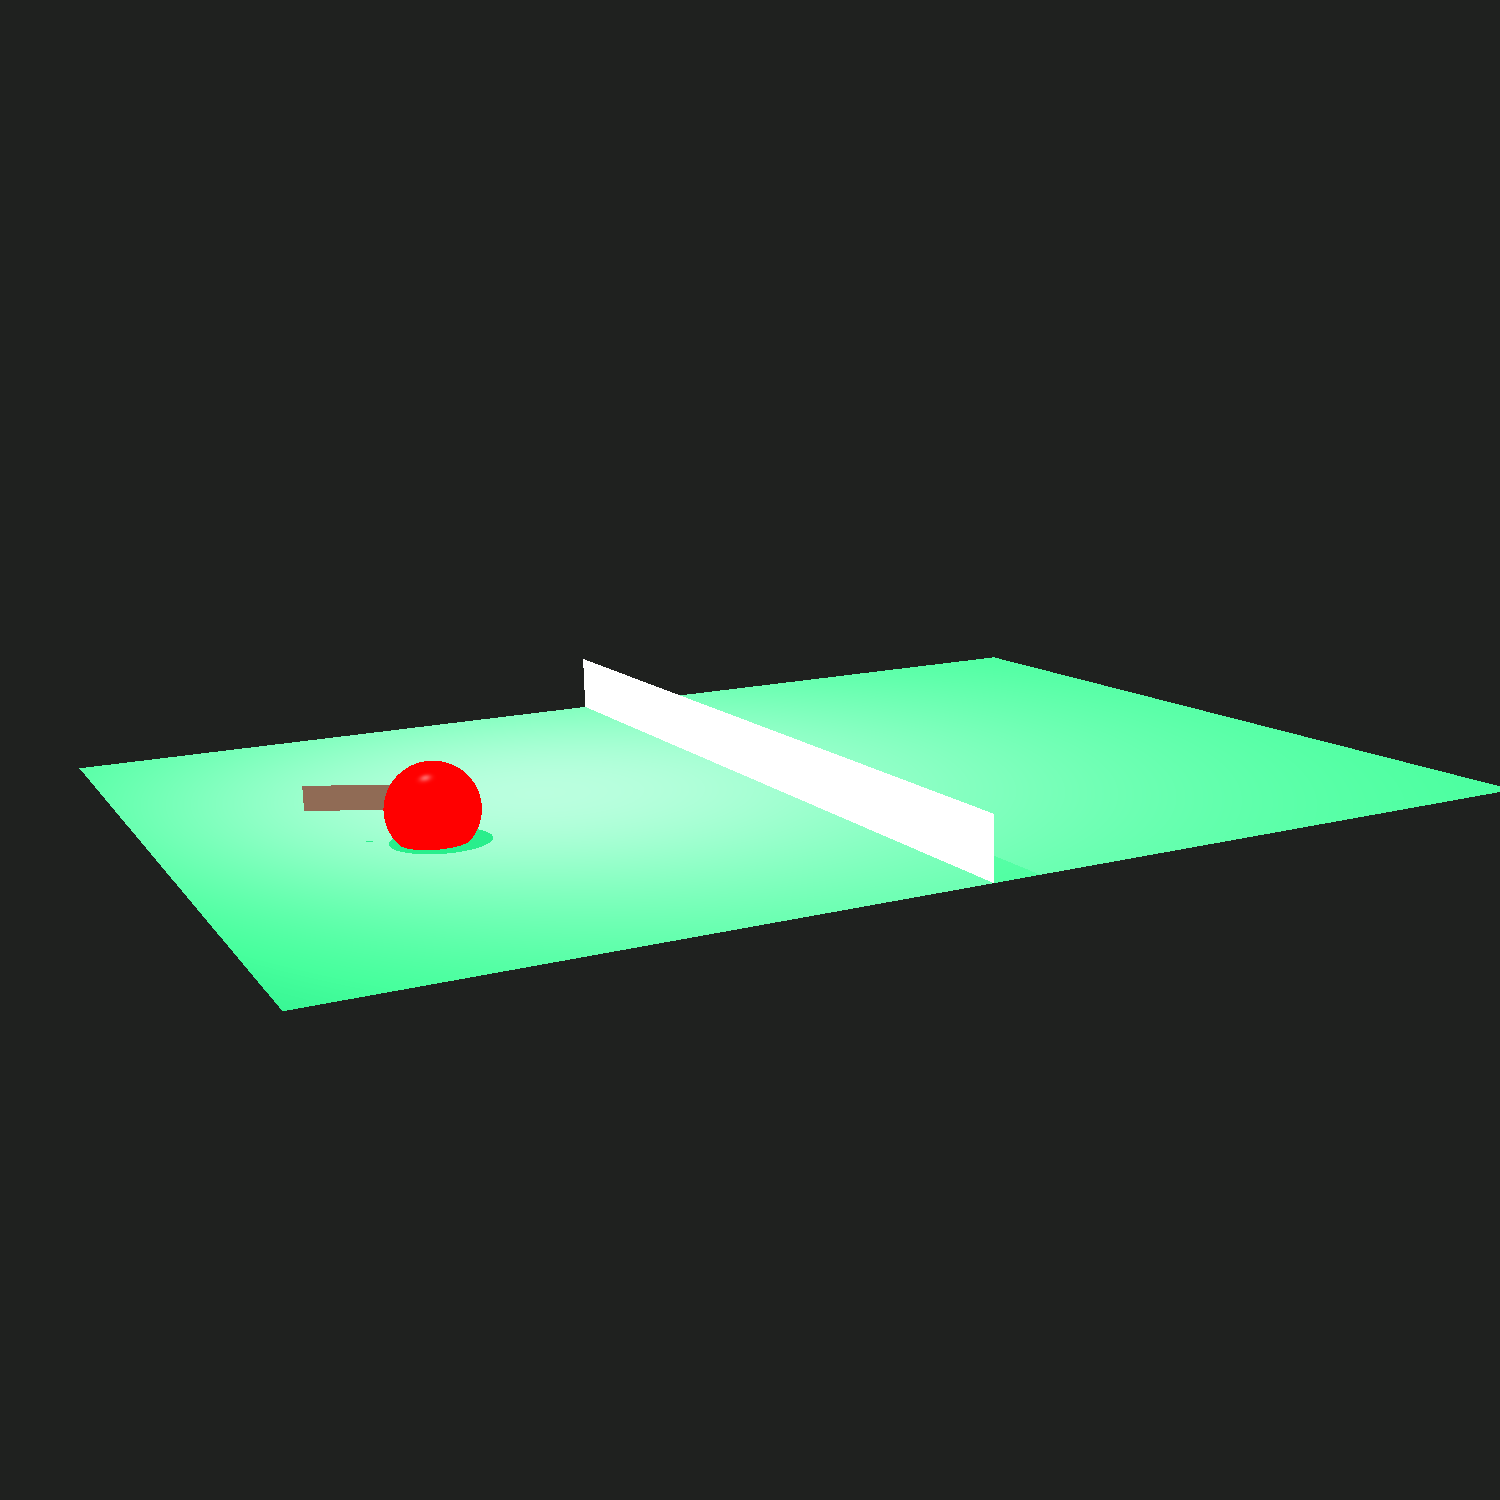
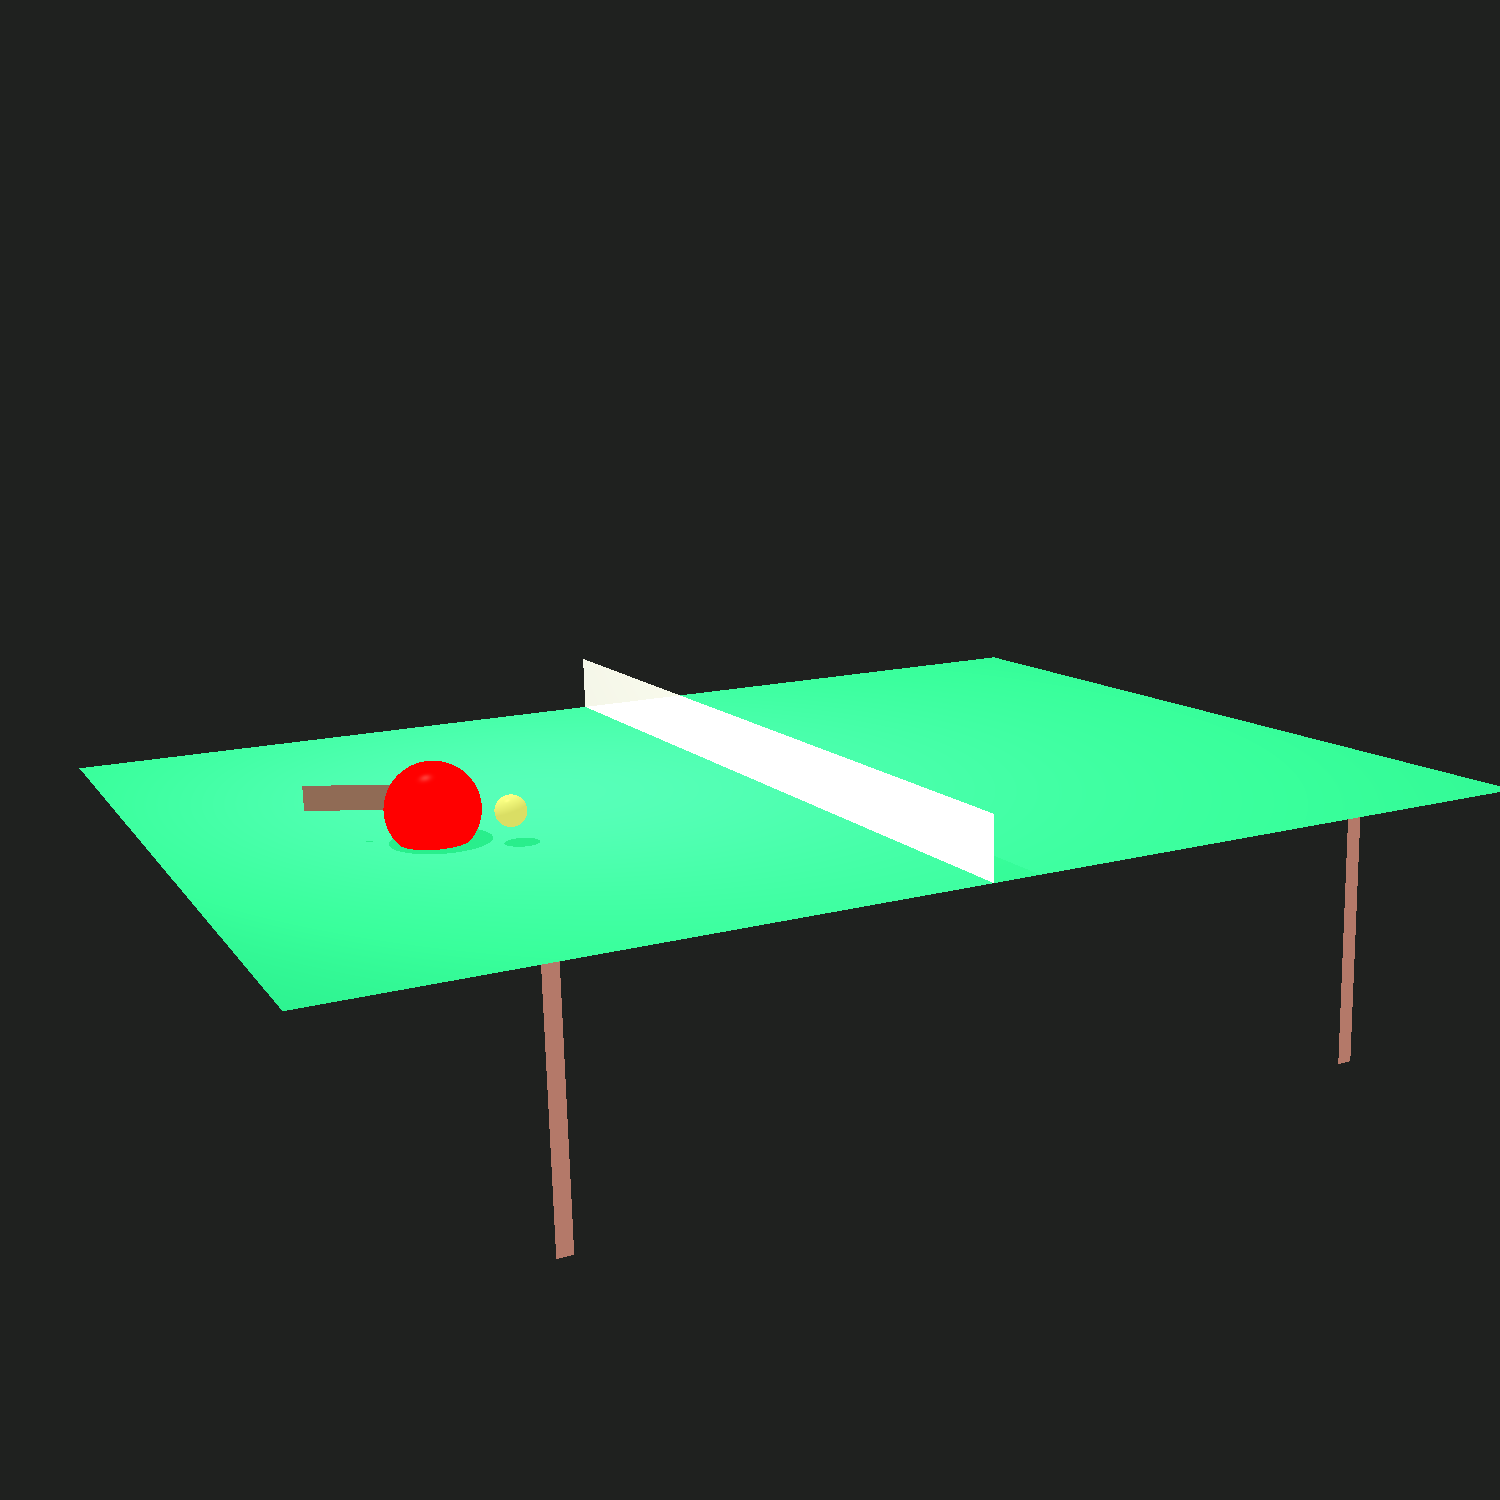
final commit ex7

Changed region(s): [[0.0613, 0.4293, 1.0, 0.8587]]

diff --git a/tests/renderer/MyImages.java b/tests/renderer/MyImages.java
@@ -1,4 +1,5 @@
 package renderer;
+
 import elements.*;
 import geometries.*;
 import primitives.*;
@@ -9,51 +10,98 @@ import org.junit.jupiter.api.Test;
 
 public class MyImages {
 
+    Scene scene = new Scene.SceneBuilder("Tennis table")
+            .setBackground(new Color(31, 33, 31))
+            .setGeometries(new Geometries(
+                    new Polygon(
+                            new Point3D(-200, -150, -10),
+                            new Point3D(-200, 150, -10),
+                            new Point3D(200, 150, -10),
+                            new Point3D(200, -150, -10))
+                            .setEmission(new Color(41, 238, 140))
+                            .setMaterial(new Material()
+                                    .setShininess(200)
+                                    .setKs(0.3)
+                                    .setKd(0.6)),
+                    new Polygon(
+                            new Point3D(0, 150, 10),
+                            new Point3D(0, 150, -10),
+                            new Point3D(0, -150, -10),
+                            new Point3D(0, -150, 10))
+                            .setEmission(new Color(238, 239, 226))
+                            .setMaterial(new Material()
+                                    .setKd(0.2)
+                                    .setKs(0.2)
+                                    .setShininess(30)
+                                    .setKt(0.6)),
+                    new Sphere(15, new Point3D(120, 20, 0))
+                            .setEmission(Color.RED)
+                            .setMaterial(new Material()
+                                    .setKs(0.8)
+                                    .setShininess(60)),
+                    new Polygon(
+                            new Point3D(155, 0, 8),
+                            new Point3D(155, 0, 0),
+                            new Point3D(120, 20, 0),
+                            new Point3D(120, 20, 8))
+                            .setEmission(new Color(144, 107, 85))
+                            .setMaterial(new Material()
+                                    .setShininess(100)
+                                    .setKs(0.5)
+                                    .setKd(0.5)),
+                    new Polygon(
+                            new Point3D(130, 150, -10),
+                            new Point3D(135, 150, -10),
+                            new Point3D(135, 150, -90),
+                            new Point3D(130, 150, -90))
+                            .setEmission(new Color(180, 121, 105))
+                            .setMaterial(new Material()
+                                    .setKd(0.8)),
+                    new Polygon(
+                            new Point3D(-130, 150, -10),
+                            new Point3D(-135, 150, -10),
+                            new Point3D(-135, 150, -90),
+                            new Point3D(-130, 150, -90))
+                            .setEmission(new Color(180, 121, 105))
+                            .setMaterial(new Material()
+                                    .setKd(0.8)),
+                    new Polygon(
+                            new Point3D(-130, -150, -10),
+                            new Point3D(-135, -150, -10),
+                            new Point3D(-135, -150, -90),
+                            new Point3D(-130, -150, -90))
+                            .setEmission(new Color(180, 121, 105))
+                            .setMaterial(new Material()
+                                    .setKd(0.8)),
+                    new Polygon(
+                            new Point3D(-130, 150, -10),
+                            new Point3D(-135, 150, -10),
+                            new Point3D(-135, 150, -90),
+                            new Point3D(-130, 150, -90))
+                            .setEmission(new Color(180, 121, 105))
+                            .setMaterial(new Material()
+                                    .setKd(0.8)),
+                    new Sphere(5, new Point3D(100, 35, 0))
+                            .setEmission(new Color(218, 222, 100))
+                            .setMaterial(new Material()
+                                    .setShininess(50)
+                                    .setKd(0.5)
+                                    .setKs(0.2))))
+            .build();
+
     @Test
-    void tennisTable(){
-        Point3D p1 = new Point3D(-200, -150, -10),
-                p2 = new Point3D(-200, 150, -10),
-                p3 = new Point3D(200, 150, -10),
-                p4 = new Point3D(200, -150, -10);
-        Scene scene = new Scene.SceneBuilder("my scene")
-                .setBackground(new Color(31, 33, 31))
-                .setGeometries(new Geometries(
-                        new Polygon(p1, p2, p3, p4)
-                        .setEmission(new Color(41, 238, 140))
-                        .setMaterial(new Material()
-                        .setShininess(200)
-                        .setKs(0.3)
-                        .setKd(0.6)),
-                        new Polygon(
-                                new Point3D(0, 150, 10),
-                                new Point3D(0, 150, -10),
-                                new Point3D(0, -150, -10),
-                                new Point3D(0, -150, 10)
-                        ).setEmission(new Color(243, 253, 254))
-                        .setMaterial(new Material().setKd(0.3).setKs(0.2).setKt(0.6)),
-                        new Sphere(15, new Point3D(120, 20,0))
-                        .setEmission(Color.RED)
-                        .setMaterial(new Material().setKs(0.8).setShininess(60)),
-                        new Polygon(
-                                new Point3D(155, 0, 8),
-                                new Point3D(155, 0,0),
-                                new Point3D(120, 20, 0),
-                                new Point3D(120, 20, 8))
-                        .setEmission(new Color(144, 107, 85))
-                        .setMaterial(new Material().setShininess(100).setKs(0.5).setKd(0.5))
-                ))
-                .build();
+    void tennisTable() {
         scene.lights.add(
                 new SpotLight(
-                    new Color(700, 400, 400),
-                    new Point3D(150, 0, 200),
-                    new Vector(-150, -38, -90))
-                    .setKl(4E-4).setKq(2E-5));
+                        new Color(225, 239, 217),
+                        new Point3D(150, 0, 200),
+                        new Vector(-150, -38, -90))
+                        .setKl(4E-4).setKq(2E-5));
 
         Camera camera = new Camera(
                 new Point3D(300, 600, 150),
                 new Vector(-300, -600, -150),
-                new Vector(-12.5,-18.75,100))
+                new Vector(-12.5, -18.75, 100))
                 .setViewPlaneSize(150, 150)
                 .setDistance(200);
 
@@ -64,50 +112,10 @@ public class MyImages {
         render.renderImage();
         render.writeToImage();
 
-        Render render2 = new Render()
-                .setImageWriter(new ImageWriter("Tennis table different angle", 1500, 1500))
-                .setCamera(camera
-                        .moveCamera(10, 20, 0)
-                        .rotateCamera(new Vector(-4, -7, -15), 4))
-                .setRayTracer(new RayTracerBasic(scene));
-        render.renderImage();
-        render.writeToImage();
     }
 
     @Test
-    void tennisTable2(){
-        Point3D p1 = new Point3D(-200, -150, -10),
-                p2 = new Point3D(-200, 150, -10),
-                p3 = new Point3D(200, 150, -10),
-                p4 = new Point3D(200, -150, -10);
-        Scene scene = new Scene.SceneBuilder("my scene")
-                .setBackground(new Color(31, 33, 31))
-                .setGeometries(new Geometries(
-                        new Polygon(p1, p2, p3, p4)
-                                .setEmission(new Color(41, 238, 140))
-                                .setMaterial(new Material()
-                                        .setShininess(200)
-                                        .setKs(0.3)
-                                        .setKd(0.6)),
-                        new Polygon(
-                                new Point3D(0, 150, 10),
-                                new Point3D(0, 150, -10),
-                                new Point3D(0, -150, -10),
-                                new Point3D(0, -150, 10)
-                        ).setEmission(new Color(243, 253, 254))
-                                .setMaterial(new Material().setKd(0.3).setKs(0.2).setKt(0.6)),
-                        new Sphere(15, new Point3D(120, 20,0))
-                                .setEmission(Color.RED)
-                                .setMaterial(new Material().setKs(0.8).setShininess(60)),
-                        new Polygon(
-                                new Point3D(155, 0, 8),
-                                new Point3D(155, 0,0),
-                                new Point3D(120, 20, 0),
-                                new Point3D(120, 20, 8))
-                                .setEmission(new Color(144, 107, 85))
-                                .setMaterial(new Material().setShininess(100).setKs(0.5).setKd(0.5))
-                ))
-                .build();
+    void tennisTable2() {
         scene.lights.add(
                 new SpotLight(
                         new Color(700, 400, 400),
@@ -118,7 +126,7 @@ public class MyImages {
         Camera camera = new Camera(
                 new Point3D(300, 600, 150),
                 new Vector(-300, -600, -150),
-                new Vector(-12.5,-18.75,100))
+                new Vector(-12.5, -18.75, 100))
                 .setViewPlaneSize(150, 150)
                 .setDistance(200);
 

diff --git a/src/geometries/Box.java b/src/geometries/Box.java
@@ -1,0 +1,52 @@
+package geometries;
+import primitives.*;
+
+import java.util.List;
+
+//TODO need to think of this
+public class Box extends Geometry{
+    //final Point3D[] _points;
+    final Polygon[] _corners;
+
+    /**
+     *
+     * @param points
+     */
+    public Box(Point3D[] points) {
+        if(points == null){
+            throw new IllegalArgumentException("no points entered");
+        }
+        if(points.length != 8){
+            throw new IllegalArgumentException("Box most have 8 points");
+        }
+        //TODO
+        _corners = new Polygon[6];
+        for(int i = 0; i < 6; i += 2){
+            _corners[i] = new Polygon(points[i], points[i+1], points[i+2], points[i+3]);
+        }
+    }
+
+    /**
+     * get the normal that stand on point in some geometry
+     *
+     * @param point should be null for flat geometries
+     * @return the normal to the geometry
+     */
+    @Override
+    public Vector getNormal(Point3D point) {
+        //TODO
+        return null;
+    }
+
+    /**
+     * find intersections of ray with geometry shape
+     *
+     * @param ray ray that cross the geometry
+     * @return list of intersection points that were found
+     */
+    @Override
+    public List<GeoPoint> findGeoIntersections(Ray ray) {
+        //TODO
+        return null;
+    }
+}

diff --git a/src/primitives/Ray.java b/src/primitives/Ray.java
@@ -41,11 +41,7 @@ public class Ray {
     public Ray(Point3D point, Vector dir, Vector n) {
         double delta = n.dotProduct(dir) >= 0d ? DELTA : - DELTA;
         _p0 = point.add(n.scale(delta));
-
-        if(dir.length() != 1d){
-            dir.normalize();
-        }
-        _dir = dir;
+        _dir = dir.normalized();
     }
 
 
